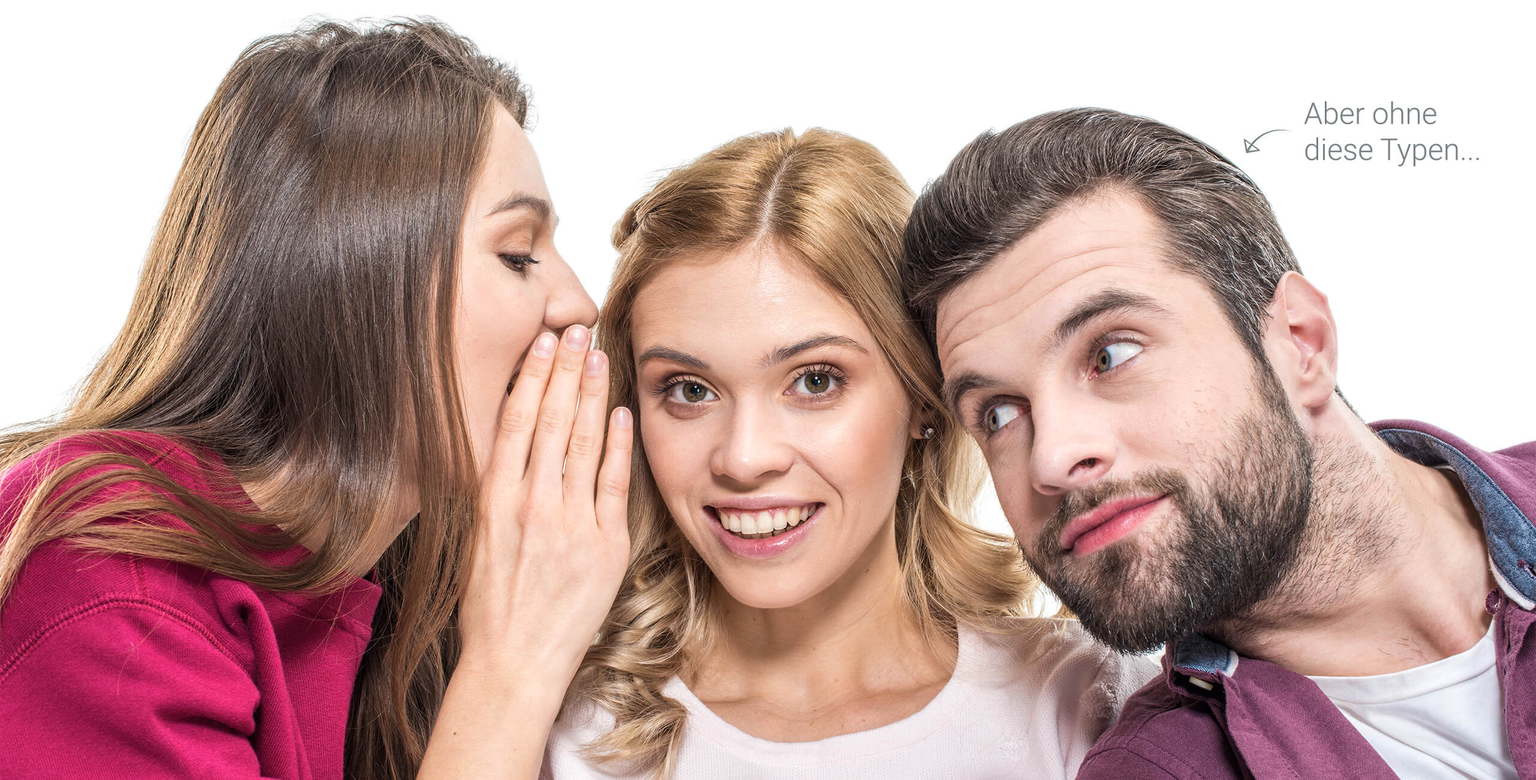
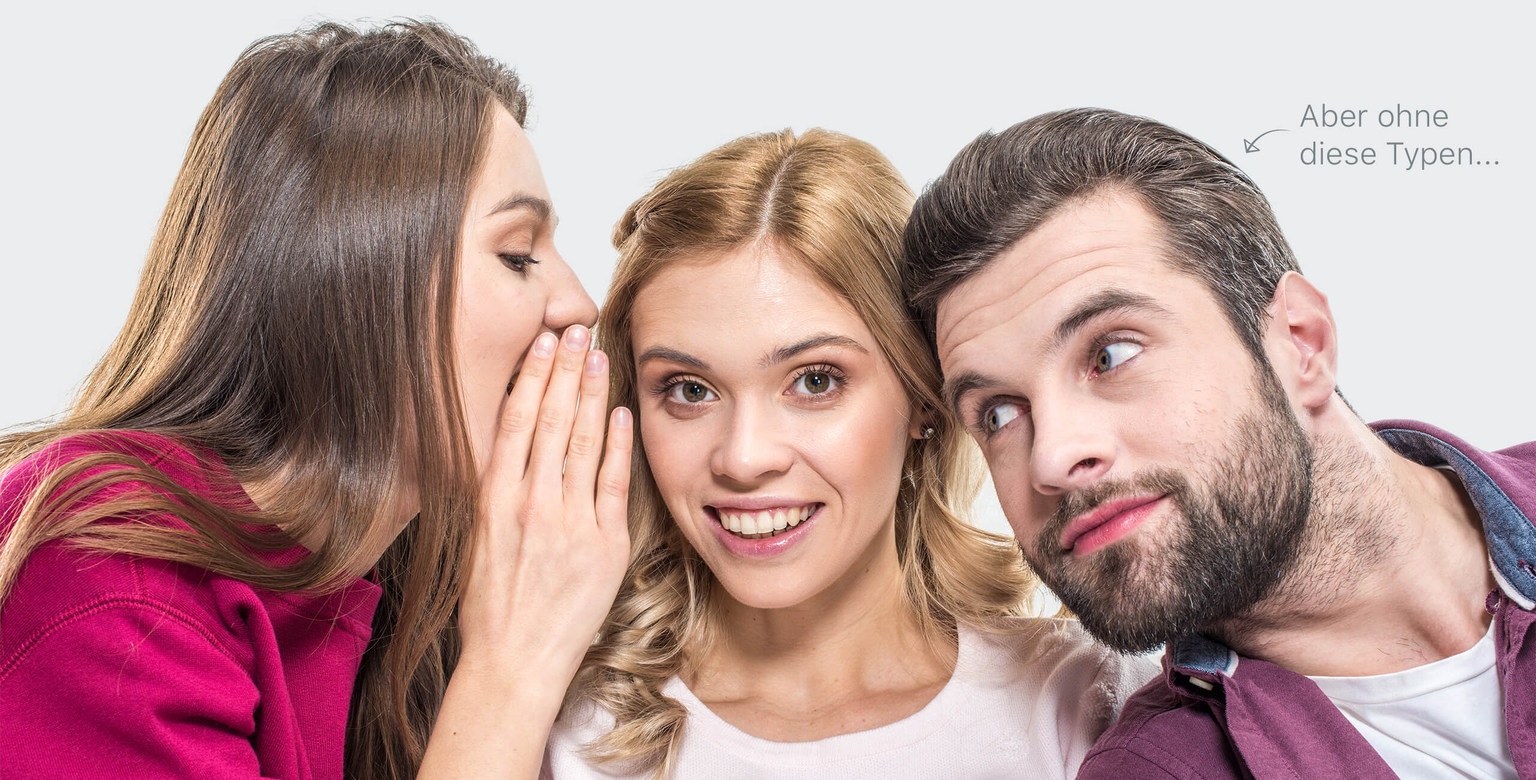
fixed background color

Changed region(s): [[0.0, 0.7077, 0.2188, 1.0], [0.8438, 0.1231, 0.9688, 0.2154]]

diff --git a/staticRaw/_sass/sections.scss b/staticRaw/_sass/sections.scss
@@ -33,7 +33,7 @@
 }
 .landing-section--background2 {
 	background-image: url("/assets/images/app-release-en.jpg");
-	background-color: #eef2f5;
+	background-color: #ebeced;
 	background-size: 100% auto;
 	background-position: center 50vh !important;
 	@media #{$large} {
